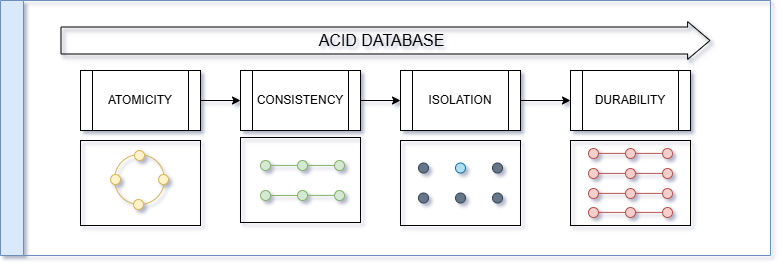
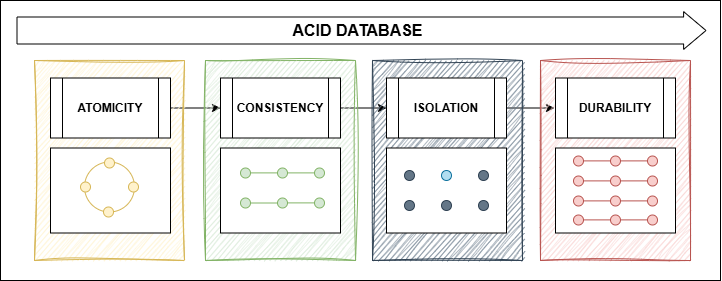
real-life

Changed region(s): [[0.0, 0.0, 1.0, 1.0]]

diff --git a/public/pt/index.html b/public/pt/index.html
@@ -413,7 +413,7 @@
   class="post-card"
   data-post-url="/pt/posts/cap-theorem/"
   data-year-month="2026-03"
-  data-tags="software engineering,system design,data-base">
+  data-tags="engenharia de software,design de sistemas,padrões de projetos,arquitetura">
   
 
 
@@ -424,12 +424,12 @@
 
   <div class="post-content">
     <h3 class="post-title">
-      <a href="/pt/posts/cap-theorem/" onclick="event.stopPropagation();">Banco de dados - A decisão!</a>
+      <a href="/pt/posts/cap-theorem/" onclick="event.stopPropagation();">Um novo projeto - Muitas decisões!</a>
     </h3>
 
     
       <p class="post-description"><h2 id="cenário">Cenário</h2>
-<p>Então você está está em uma reunião de refinamento técnico. Juntamente com o time, estão exatamente naquele momento de definir qual banco de …</p></p>
+<p>Então você está está em uma reunião de refinamento técnico. Juntamente com o time, estão exatamente em um momento de definições para a nova …</p></p>
     
 
     <div class="post-meta-inline">
@@ -454,7 +454,7 @@
           stroke-width="2"
           d="M9 12h6m-6 4h6m2 5H7a2 2 0 01-2-2V5a2 2 0 012-2h5.586a1 1 0 01.707.293l5.414 5.414a1 1 0 01.293.707V19a2 2 0 01-2 2z"></path>
       </svg>
-      252 words
+      274 words
     </span>
   
 
@@ -480,24 +480,24 @@
     
       
         <a
-          href="/pt/tags/software-engineering"
+          href="/pt/tags/engenharia-de-software"
           class="post-tag"
           onclick="event.stopPropagation();"
-          >software engineering</a
+          >engenharia de software</a
         >
       
         <a
-          href="/pt/tags/system-design"
+          href="/pt/tags/design-de-sistemas"
           class="post-tag"
           onclick="event.stopPropagation();"
-          >system design</a
+          >design de sistemas</a
         >
       
         <a
-          href="/pt/tags/data-base"
+          href="/pt/tags/padr%C3%B5es-de-projetos"
           class="post-tag"
           onclick="event.stopPropagation();"
-          >data-base</a
+          >padrões de projetos</a
         >
       
     
@@ -563,7 +563,7 @@
           stroke-width="2"
           d="M9 12h6m-6 4h6m2 5H7a2 2 0 01-2-2V5a2 2 0 012-2h5.586a1 1 0 01.707.293l5.414 5.414a1 1 0 01.293.707V19a2 2 0 01-2 2z"></path>
       </svg>
-      458 words
+      537 words
     </span>
   
 

diff --git a/public/pt/tags/index.html b/public/pt/tags/index.html
@@ -316,16 +316,30 @@
     <div class="tags-cloud">
       <div class="tags-list">
         
-          <a href="/pt/tags/software-engineering/" class="tag-item">
+          <a href="/pt/tags/arquitetura/" class="tag-item">
             <div class="tag-chip-large">
-              <span class="tag-name">Software Engineering</span>
-              <span class="tag-count-badge">2</span>
+              <span class="tag-name">Arquitetura</span>
+              <span class="tag-count-badge">1</span>
             </div>
           </a>
         
-          <a href="/pt/tags/data-base/" class="tag-item">
+          <a href="/pt/tags/design-de-sistemas/" class="tag-item">
             <div class="tag-chip-large">
-              <span class="tag-name">Data-Base</span>
+              <span class="tag-name">Design De Sistemas</span>
+              <span class="tag-count-badge">1</span>
+            </div>
+          </a>
+        
+          <a href="/pt/tags/engenharia-de-software/" class="tag-item">
+            <div class="tag-chip-large">
+              <span class="tag-name">Engenharia De Software</span>
+              <span class="tag-count-badge">1</span>
+            </div>
+          </a>
+        
+          <a href="/pt/tags/padr%C3%B5es-de-projetos/" class="tag-item">
+            <div class="tag-chip-large">
+              <span class="tag-name">Padrões De Projetos</span>
               <span class="tag-count-badge">1</span>
             </div>
           </a>
@@ -337,9 +351,9 @@
             </div>
           </a>
         
-          <a href="/pt/tags/system-design/" class="tag-item">
+          <a href="/pt/tags/software-engineering/" class="tag-item">
             <div class="tag-chip-large">
-              <span class="tag-name">System Design</span>
+              <span class="tag-name">Software Engineering</span>
               <span class="tag-count-badge">1</span>
             </div>
           </a>

diff --git a/public/pt/categories/index.html b/public/pt/categories/index.html
@@ -313,6 +313,8 @@
       
         
       
+        
+      
     
   
     
@@ -393,13 +395,17 @@
           </div>
           <div id="all-tags-data" style="display: none;">
             
-              <span data-tag="data-base">data-base</span>
+              <span data-tag="arquitetura">arquitetura</span>
+            
+              <span data-tag="design de sistemas">design de sistemas</span>
+            
+              <span data-tag="engenharia de software">engenharia de software</span>
+            
+              <span data-tag="padrões de projetos">padrões de projetos</span>
             
               <span data-tag="real life">real life</span>
             
               <span data-tag="software engineering">software engineering</span>
-            
-              <span data-tag="system design">system design</span>
             
           </div>
         </div>

diff --git a/public/index.html b/public/index.html
@@ -424,7 +424,7 @@
 
   <div class="post-content">
     <h3 class="post-title">
-      <a href="/posts/cap-theorem/" onclick="event.stopPropagation();">Data Base -  The decision!</a>
+      <a href="/posts/cap-theorem/" onclick="event.stopPropagation();">New project -  Many decisions!</a>
     </h3>
 
     
@@ -562,7 +562,7 @@
           stroke-width="2"
           d="M9 12h6m-6 4h6m2 5H7a2 2 0 01-2-2V5a2 2 0 012-2h5.586a1 1 0 01.707.293l5.414 5.414a1 1 0 01.293.707V19a2 2 0 01-2 2z"></path>
       </svg>
-      457 words
+      542 words
     </span>
   
 

diff --git a/public/posts/index.html b/public/posts/index.html
@@ -454,7 +454,7 @@
 
   <div class="post-content">
     <h3 class="post-title">
-      <a href="/posts/cap-theorem/" onclick="event.stopPropagation();">Data Base -  The decision!</a>
+      <a href="/posts/cap-theorem/" onclick="event.stopPropagation();">New project -  Many decisions!</a>
     </h3>
 
     
@@ -592,7 +592,7 @@
           stroke-width="2"
           d="M9 12h6m-6 4h6m2 5H7a2 2 0 01-2-2V5a2 2 0 012-2h5.586a1 1 0 01.707.293l5.414 5.414a1 1 0 01.293.707V19a2 2 0 01-2 2z"></path>
       </svg>
-      457 words
+      542 words
     </span>
   
 

diff --git a/content/posts/real-life/index.pt.md b/content/posts/real-life/index.pt.md
@@ -12,15 +12,28 @@ Esse foi um dos motivods de o por que eu descidi criar esse blog, para compartil
 
 ## A 'Triste' Realidade ##
 
-No entanto, a verdade é bem distante disso onde a vida real de um engenheiro de software é mais como estar em fronte a uma moldura em branco onde engenheiros trabalham como um artistas, pintando um próximo quadro cheios de incertezas mas dando o melhor deles para tomarem as menos piores decisões... 
+No entanto, a verdade é bem distante disso. Eu costumo pensar que a vida real de um engenheiro de software é mais como:
 
-Infelizmente, a industria da Tecnologia da informação é mais como uma selva onde nós precisamos sobreviver. As vezes é excitante, as vezes cansativo estar nessa luta constante pela sobrevivência. É como um labirinto que muda suas rotas todos os dias, nos forçando constantemente a a aprender novos padrões. 
+* Estar em frente a uma moldura em branco onde engenheiros trabalham como um artistas, pintando um próximo quadro cheios de incertezas mas dando o melhor deles para tomarem as menos piores decisões... 
 
-Soa negativo? Pode ser... mas ao mesmo tempo, não são esses desafios que nos impulsionam como engenheiros? E não é verdade que cada desafio vencido e lições aprendidas no processo nos enchem de dopamina, trazendo sentimentos de prazer, motivação, até mesmo de felicidade? E para mim, esse deve ser o maior foco de nossas energias.
+* Viver em uma selva onde nós precisamos sobreviver. As vezes é excitante, as vezes cansativo essa luta constante pela sobrevivência. 
 
-Os sentimentos quando vemos a aplicação ou a solução que criamos rodando suave resolvendo um problema real pode ser recompesador, e quer saber? As palavras "rodando suave" são diferentes de "rodando perfeitamente" o que é o ponto chave aqui. Inúmeras pessoas tem vendido a ideia de perfeição na industria de Engenharia de Sofware resultando em uma geração de engenheiros que buscam perfeição no código que escrevem, nas soluções que sugerem, nas ideias que alimentam ou por uma empresa perfeita. Infelizmente, essa sede por "perfeição" tem escalado para nossas vidas, nos deixando doentes por isso. 
+* Estar em um labirinto que muda suas rotas todos os dias, nos forçando constantemente a aprender novos padrões. 
+
+Soa negativo? Não deveria... não são esses desafios que nos impulsionam como engenheiros? E não é verdade que cada desafio vencido e lições aprendidas no processo nos enchem de dopamina, trazendo sentimentos de prazer, motivação, até mesmo de felicidade? E para mim, esse deve ser o maior foco de nossas energias.
+
+Os sentimentos quando vemos a aplicação ou a solução que criamos rodando suave resolvendo um problema real pode ser recompesador, e quer saber? As palavras "rodando suave" são diferentes de "rodando perfeitamente" o que é o ponto chave aqui. Inúmeras pessoas tem vendido a ideia de perfeição na industria de Engenharia de Sofware resultando em uma geração de engenheiros que buscam perfeição no código que escrevem, nas soluções que sugerem, nas ideias que alimentam ou por uma empresa perfeita. Infelizmente, essa sede por "perfeição" tem escalado para nossas vidas, deixando muitos de nós doentes por isso. 
 
 ## Seja Melhor, não Perfeito ##
-Pode parecer estranho ouvir isso mas sim, __"NÃO EXISTE CÓDIGO PERFEITO"__, __"NÃO EXISTE PROJETO PERFEITO"__, __"NÃO EXISTE EMPRESA PERFEITA"__... e por hora, é melhor aceitarmos isso. A maior parte do que é mostrado nas redes sociais, videos, propaganda de empresas não são realidades. Nós somos humanos e por hora nós somos imperfeitos e cometemos erros o que não significa que devemos passivamente aceitar isso, do contrário, isso pode significar para nós que nós e todos os outros temos falhas. Por hora, o tesouro está em continuar tentando ser melhores e não perfeitos.
+O livro O Programador Pragmático menciona algo que me deixou pensativo por um tempo até eu conseguir digerir a ideia por completo. A citação é:
+
+_"Você não consegue escrever software perfeito. Isso doeu? Não deveria. Aceite como um axioma da vida. Aceite. Comemore. Porque software perfeito não existe. Ninguém na breve história da computação jamais escreveu um software perfeito. É improvável que você seja o primeiro." O Programador Pragmático_
+
+Pode parecer duro ouvir isso mas
+* __"NÃO EXISTE CÓDIGO PERFEITO"__
+* __"NÃO EXISTE PROJETO PERFEITO"__
+* __"NÃO EXISTE EMPRESA PERFEITA"__
+
+E por hora, é melhor aceitarmos isso. A maior parte do que é mostrado na mídia não são realidades. Nós somos humanos, somos imperfeitos e cometemos erros o que não significa que devemos passivamente aceitar isso, do contrário, isso pode significar que entendemos que nós e todos os outros temos falhas. Por hora, o tesouro está em continuar tentando ser melhores, aprendendo, melhorando e crescendo como engenheiros, como humanos. Ter um visão equilibrada sobre esse tópico tem sido de grande ajuda para mim e espero que você também possa achar esse mesmo equilíbrio.
 
 _Escrito por humano - **Cris**_

diff --git a/content/posts/real-life/index.md b/content/posts/real-life/index.md
@@ -12,15 +12,28 @@ You may have asked this question today, haven't you? I would guess that yes in c
 This is one of the reasons why I decided to create this blog, to share real life experiences of a software engineer in a world where it seems there is no more reality, where everyone seems perfect, super efficient with no flaws building rocket-science projects. 
 
 ## The 'Sad' Reality ##
-However, the truth is far from that where the real life of a software engineering is more like an empty canvas where engineers work as artists, working on the next painting filled with uncertainties but doing their best to make the least wrong decisions...
+However, the truth is far from that. I usually think the real life of a software engineering is more like:
 
-Unfortunately, the IT industry is more like a jungle where we need to survive. It is at times  exciting, at times overwhelming to be out there fighting for our survival. It is like a maze that changes its routes every day forcing us constantly to learn new patterns.
+* To be in front of an empty canvas where engineers work as artists, working on the next painting filled with uncertainties but doing their best to make the least wrong decisions...
 
-Sounds negative? It can be.... but at the same time, aren't these challenges that boost us as engineers? Isn't it true that each challenge overcome and the lessons learnt in the process fills us with dopamine, bringing feelings of pleasure, motivation, even happiness? And for me, this should be the main focus of our energy.
+* Living in a jungle where we need to survive. It is at times exciting, at times overwhelming to be out there fighting for our survival. 
 
-The feelings we have when we see the application or the solution we built running smoothly solving a real problem can be rewarding, and you know what? The words "running smoothly" are different from "running perfectly" which is the key point here. Countless people have been selling the idea of perfection in the IT industry resulting in a generation of engineers looking for such perfection in the code they write, in the solutions they bring, in the ideas they have or in the company they work for. Sad though, this thirsty for "perfection" has escalated to our lives, causing us to be sick for it. 
+* Being in a maze that changes its routes every day forcing us constantly to learn new patterns.
+
+Sounds negative? It shouldn't be.... aren't these challenges that boost us as engineers? Isn't it true that each challenge overcome and the lessons learnt in the process fills us with dopamine, bringing feelings of pleasure, motivation, even happiness? And for me, this should be the main focus of our energy.
+
+The feelings that emerge  when we see the application or the solution we built running smoothly solving a real problem can be rewarding, and you know what? The words "running smoothly" are different from "running perfectly" which is the key point here. Countless people have been selling the idea of perfection in the IT industry resulting in a generation of engineers looking for such perfection in the code they write, in the solutions they bring, in the ideas they have or in the company they work for. Sad though, this thirsty for "perfection" has escalated to our lives, making many of us sick for it.
 
 ## Be Better not Perfect ##
-It may sound hard to hear but yeah __"THERE IS NO PERFECT CODE"__, __"THERE IS NO PERFECT PROJECT"__, __"THERE IS NO PERFECT COMPANY"__.... and for now, it is better to accept it. Most of what is shown in social media, videos, companies' advertisements are not real. We are humans, we are imperfect and make mistakes and it doesn't mean we should passively accept it, rather it can mean we understand we and everyone else have flaws. For now, the treasure lives in trying to be better and not perfect. 
+The Pragmatic Engineer book quotes something that got me thinking for a while until I could completely digest that. The quotation is:
+
+_"No one in the brief history of computing has ever written a piece of perfect software. It's unlikely that you'll be the first. And unless you accept this as a fact, you'll end up wasting time and energy chasing an impossible dream." - The Pragmatic Engineer_
+
+It may sound hard to hear but yeah 
+* __"THERE IS NO PERFECT CODE"__
+* __"THERE IS NO PERFECT PROJECT"__
+* __"THERE IS NO PERFECT COMPANY"__
+
+And for now, it is better to accept it. Most of what is shown in the media is not real. We are humans, we are imperfect and make mistakes what doesn't mean we should passively accept it, rather it can mean we understand that everyone have flaws. For now, the treasure lives in trying to get better, learning, improving and growing as engineers, as humans. Such a balanced view has been helpful in many ways for me and I hope you can also take advantage of it. 
 
 _Written by human - **Cris**_

diff --git a/content/posts/cap-theorem/index.pt.md b/content/posts/cap-theorem/index.pt.md
@@ -1,12 +1,12 @@
 +++
 date = '2026-03-17T19:00:40-03:00'
 draft = true
-title = 'Banco de dados - A decisão!'
-tags = ['software engineering', 'system design','data-base']
+title = 'Um novo projeto - Muitas decisões!'
+tags = ['engenharia de software', 'design de sistemas','padrões de projetos', 'arquitetura']
 +++
 
 ## Cenário ##
-Então você está está em uma reunião de refinamento técnico. Juntamente com o time, estão exatamente naquele momento de definir qual banco de dados usar. Alguns defendem o uso de um banco de dados relacional, outros levantam a bandeira do não relacional. E então, chega o seu momento de entrar na discussão e dar sua opnião... 
+Então você está está em uma reunião de refinamento técnico. Juntamente com o time, estão exatamente em um momento de definições para a nova solução que estão implementando. Alguns defendem o uso de um banco de dados relacional, outros levantam a bandeira do não relacional. Monolito, monolito modular ou partirmos de microserviços? E então, chega o seu momento de entrar na discussão e dar sua opnião... 
 
 * Quais parâmetros você analizaria para dar sua sugestão? 
 
@@ -21,17 +21,16 @@ Pois bem, essa é uma situação muito comum entre times de engenharia de softwa
 
 Para nos ajudar a solucionar esse cenário temos algumas ferramentas que nos ajudam a definir os prós e contras na hora de decidir exatamente qual tipo de banco de dados implementar em um projeto. 
 
-Vamos explorar os conceito sobre os seguintes tópicos:
+Vamos explorar os conceitos sobre os seguintes tópicos:
 
 * ACID
 * BASE
 * Teorema CAP
 * PACELC
 
-Esses são fundamentos base que engenheiros de software precisam ter dentro de sua caixa de ferramentas para tomarem decisões ao definirem qual banco de dados usar em seus projetos. Após entender o que são e como utiliza-las no dia a dia, conseguiremos ter uma base sólida para tomadas de decisão. 
+Esses são fundamentos base que engenheiros de software precisam ter dentro de sua caixa de ferramentas para tomarem decisões ao projetarem soluções e nos aprofundar em patterns arquiteturais mais complexos definirem qual modelo de banco de dados usar em seus projetos. Após entender o que são e como utiliza-las no dia a dia, conseguiremos ter uma base sólida para tomadas de decisão. 
 
 ## ACID ##
-
 ![acid draw](acid.png)
 
 _Escrito por humano - **Cris**_

diff --git a/content/posts/cap-theorem/index.md b/content/posts/cap-theorem/index.md
@@ -1,7 +1,7 @@
 +++
 date = '2026-03-17T19:00:40-03:00'
 draft = true
-title = 'Data Base -  The decision!'
+title = 'New project -  Many decisions!'
 tags = ['software engineering', 'system design','data-base']
 +++
 
